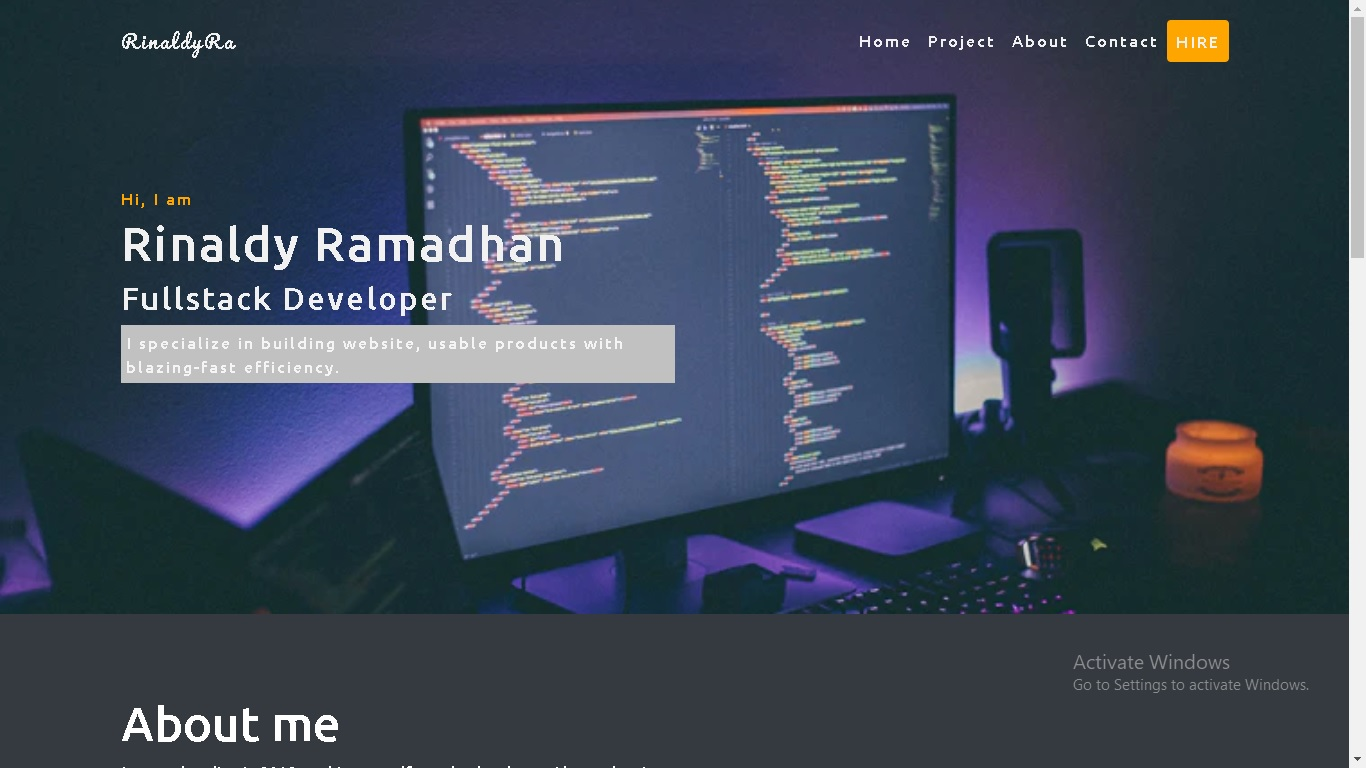
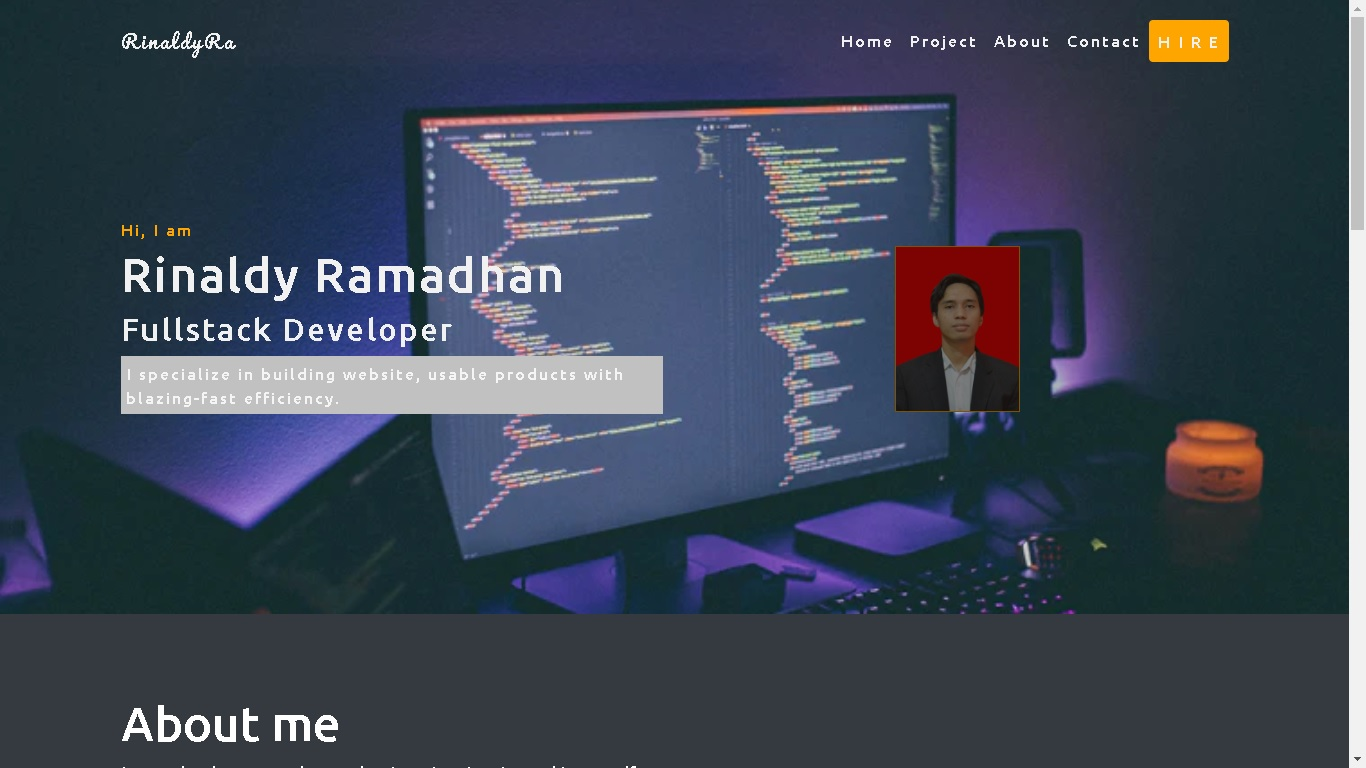
modified cv css images, index.html

diff --git a/index.html b/index.html
@@ -10,7 +10,7 @@
 	<link rel="stylesheet" href="./css/style.css">
 </head>
 <body>
-	<header class="header-home">
+	<header class="header-home py-1">
 		<div class="header-home"></div>
 		<nav class="navbar navbar-expand-lg navbar-light">
 		  <div class="container">
@@ -33,6 +33,9 @@
 		          <a class="nav-link" href="#contact">Contact</a>
 		        </li>
 		        <li class="nav-item">
+		          <a class="nav-link" href="https://tambunhost.my.id/tyaga">Website</a>
+		        </li>
+		        <li class="nav-item">
 		          <a class="nav-link btn btn-cta" href="#">H I R E</a>
 		        </li>
 		      </ul>
@@ -42,18 +45,18 @@
 
 		<section class="me">
 			<div class="container">
-				<div class="row align-items-center">
+				<div class="row align-items-center justify-content-center">
 					<div class="col-lg-6 col-sm-12">
 						<p class="para1">Hi, I am </p>
 						<h1>Rinaldy Ramadhan</h1>
 						<h2>Fullstack Developer</h2>
-						<p class="para2 d-none d-sm-block">I specialize in building website, usable products with blazing-fast efficiency.</p>
+						<p class="para2">I specialize in building website, usable products with blazing-fast efficiency.</p>
 					</div>
 					<div class="col-lg-6 col-sm-12 text-center my-5">
 						<img 
 							src="./FOTO.jpg" 
 							alt="Rinaldy Ramadhan" 
-							class="img-fluid img-foto mt-3 mt-sm-0"
+							class="img-fluid img-foto mt-3 mt-sm-0 d-lg-inline d-none"
 						/>
 					</div>
 				</div>
@@ -66,6 +69,11 @@
 			<div class="container">
 				<div class="row align-items-center">
 					<div class="col-lg-6">
+						<img 
+							src="./FOTO.jpg" 
+							alt="Rinaldy Ramadhan" 
+							class="img-fluid img-foto mt-3 mt-sm-0 d-lg-none d-inline"
+						/>
 						<h2>About me</h2>
 						<p>
 							I started make some web app when i was in university, and I am a self-taught developer. I love what I am doing, and I am highly motivated to collaborate with someone. If you are up into some projects, just let me know!
@@ -128,11 +136,13 @@
 					</div>
 					<div class="col-lg-4 project">
 						<div class="img-holder">
-							<img 
-								src="./images/smpn4.jpg" 
-								alt="SMPN 4 BABELAN"
-								class="img-fluid"
-							/>
+							<a href="https://bit.ly/smpn4babelan">
+								<img 
+									src="./images/smpn4.jpg" 
+									alt="SMPN 4 BABELAN"
+									class="img-fluid"
+								/>
+							</a>
 						</div>
 						<div class="text-holder d-flex justify-content-between">
 							<a href="#"><i class="fab fa-github text-white" aria-hidden="true"></i></a>
@@ -141,11 +151,13 @@
 					</div>
 					<div class="col-lg-4 project">
 						<div class="img-holder">
-							<img 
-								src="./images/portofolio.jpg" 
-								alt="Portofolio"
-								class="img-fluid"
-							/>
+							<a href="https://bit.ly/portofolio">
+								<img 
+									src="./images/portofolio.jpg" 
+									alt="portofolio"
+									class="img-fluid"
+								/>
+							</a>
 						</div>
 						<div class="text-holder d-flex justify-content-between">
 							<a href="#"><i class="fab fa-github text-white" aria-hidden="true"></i></a>
@@ -154,11 +166,13 @@
 					</div>
 					<div class="col-lg-4 project">
 						<div class="img-holder">
-							<img 
-								src="./images/tambunhost.jpg" 
-								alt="Portofolio"
-								class="img-fluid"
-							/>
+							<a href="https://bit.ly/tambunhost">
+								<img 
+									src="./images/tambunhost.jpg" 
+									alt="TambunHost"
+									class="img-fluid"
+								/>
+							</a>
 						</div>
 						<div class="text-holder d-flex justify-content-between">
 							<a href="#"><i class="fab fa-github text-white" aria-hidden="true"></i></a>

diff --git a/css/style.css b/css/style.css
@@ -7,7 +7,6 @@ body{
 /* ################## NAVBAR AREA ##############*/
 header.header-home{
 	background: url(https://images.unsplash.com/photo-1509718443690-d8e2fb3474b7?ixlib=rb-1.2.1&ixid=eyJhcHBfaWQiOjEyMDd9&auto=format&fit=crop&w=750&q=80);
-	height: 80vh;
 	background-repeat: no-repeat;
 	background-size: cover;
 	background-position: center;
@@ -89,6 +88,18 @@ section.me img.img-foto:hover{
 /* ################## END ME AREA ##############*/
 
 /* ################## ABOUT ME AREA ##############*/
+section.about-me img.img-foto{
+	height: auto;
+	width: 125px;
+	border: 1px solid orange;
+	filter: brightness(50%);
+}
+
+section.about-me img.img-foto:hover{
+	filter: brightness(100%);
+	cursor: pointer;
+}
+
 section.about-me {
 	padding: 5rem 0;
 }
